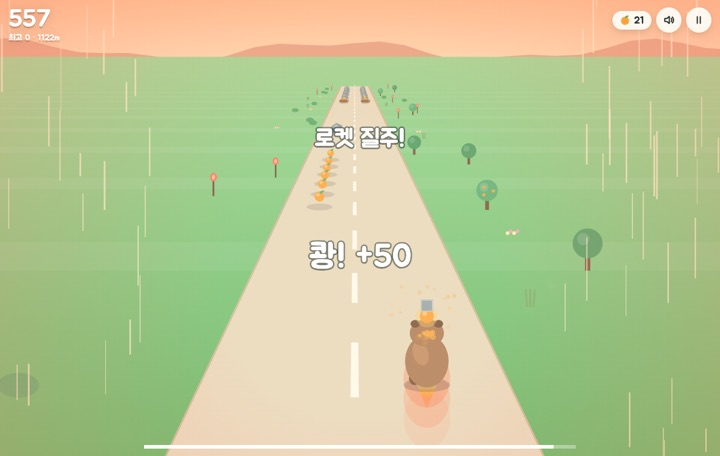
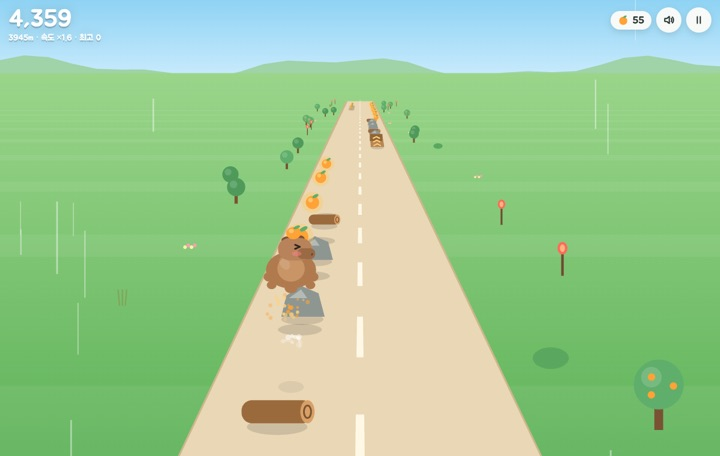
Dash: a cuter capybara with a face, and no shield item
The capybara is now chubby with short trotting feet and a big boxy head turned
toward the middle of the road (and toward the lane it moves to), so its snout,
sleepy eye and blush show. Expressions follow the moment: content while
running, >< mid-jump, star eyes on a rocket, wide eyes and a sweat drop on a
near miss, x when it crashes. The yuzu on its head wobbles on a spring and the
body squashes as each foot lands. The bubble shield is removed.

diff --git a/dash/index.html b/dash/index.html
@@ -209,15 +209,15 @@ const laneX = (lane, d) => W / 2 + (lane === 0 ? -1 : 1) * roadHalf * 0.5 * scal
 // ---------- game state ----------
 const LANE_TIME = 0.12;
 let state = 'title', t = 0, dist = 0, speed = 0, score = 0, yuzu = 0, combo = 0, comboT = 0, smashCombo = 0, nearCount = 0, smashed = 0;
-let lane = 1, laneFrom = 1, laneT = 1, boostT = 0, shield = false, hitstop = 0, slowmo = 0, shake = 0, flash = 0, dead = false, deadT = 0;
-let rings = [], zoomKick = 0, airT = 0, objs = [], parts = [], texts = [], streaks = [], scenery = [], nextSpawn = 0, lastPatternLane = 0, speedLevel = 0, rocketIn = 0, itemIn = 0;
+let lane = 1, laneFrom = 1, laneT = 1, boostT = 0, hitstop = 0, slowmo = 0, shake = 0, flash = 0, dead = false, deadT = 0;
+let rings = [], zoomKick = 0, airT = 0, objs = [], parts = [], texts = [], streaks = [], scenery = [], nextSpawn = 0, lastPatternLane = 0, speedLevel = 0, rocketIn = 0, face = 1, nearT = 0, yuzuAng = 0, yuzuVel = 0;
 const BASE_SPEED = 600, MAX_SPEED = 1500, BOOST_MUL = 2.2, RAMP_SECS = 120;   // linear climb to 2.5x, then hold (like the Chrome dino)
 const AIR = 0.85;   // seconds airborne after a jump ramp
 
 function reset() {
   t = 0; dist = 0; speed = BASE_SPEED; score = 0; yuzu = 0; combo = 0; comboT = 0; nearCount = 0; smashed = 0; smashCombo = 0;
-  lane = 1; laneFrom = 1; laneT = 1; boostT = 0; shield = false; hitstop = 0; slowmo = 0; shake = 0; flash = 0; dead = false; deadT = 0;
-  objs = []; parts = []; texts = []; rings = []; zoomKick = 0; airT = 0; nextSpawn = 900; speedLevel = 0; rocketIn = rand(9, 13); itemIn = rand(14, 20);
+  lane = 1; laneFrom = 1; laneT = 1; boostT = 0; hitstop = 0; slowmo = 0; shake = 0; flash = 0; dead = false; deadT = 0;
+  objs = []; parts = []; texts = []; rings = []; zoomKick = 0; airT = 0; nextSpawn = 900; speedLevel = 0; rocketIn = rand(9, 13); face = 1; nearT = 0; yuzuAng = 0; yuzuVel = 0;
   scenery = [];
   for (let d = -200; d < 2400; d += rand(60, 120)) addScenery(d);
 }
@@ -262,13 +262,6 @@ function spawnPattern() {
     for (let i = 1; i <= 3; i++) objs.push({ kind: 'yuzu', lane: l, d: base - i * 70 });
     rocketIn = rand(18, 26);
     nextSpawn = base + gap * 1.4;
-    return;
-  }
-  if (itemIn <= 0) {
-    const l = pick();
-    objs.push({ kind: 'bubble', lane: l, d: base });
-    itemIn = rand(13, 19);
-    nextSpawn = base + gap;
     return;
   }
   const r = Math.random();
@@ -323,6 +316,7 @@ function tap() {
   if (threat && boostT <= 0) {
     nearCount++; score += 15 * (1 + speedLevel);
     float('아슬아슬! +' + 15 * (1 + speedLevel), laneX(laneFrom, 0), playerY - 60, '#fff');
+    nearT = 0.55;
     rings.push({ x: laneX(laneFrom, 0), y: playerY - 10, age: 0 }); flash = Math.max(flash, 0.15); shake = Math.max(shake, 4); Sound.near(); buzz(15);
   }
   for (let i = 0; i < 6; i++) parts.push({ x: laneX(laneFrom, 0), y: playerY + 18, vx: rand(-60, 60) + (lane - laneFrom) * 120, vy: rand(-40, 10), life: 0.35, age: 0, r: rand(3, 6), c: 'rgba(255,255,255,0.8)' });
@@ -351,6 +345,15 @@ function float(text, x, y, color, life = 0.9, size = 24) {
 const isHazard = o => o.kind === 'rock' || o.kind === 'log' || o.kind === 'crab';
 
 // ---------- update ----------
+function animateCapy(dt) {
+  const target = laneT < 1 ? (lane > laneFrom ? 1 : -1) : (laneNow() === 0 ? 1 : -1);
+  face += (target - face) * Math.min(1, dt * 12);
+  if (nearT > 0) nearT -= dt;
+  // a little spring for the yuzu: the body's bounce and lane changes kick it
+  const run = t * (15 + speed / 120);
+  yuzuVel += (-yuzuAng * 160 - yuzuVel * 9) * dt + Math.cos(run * 2) * dt * 4 + (laneT < 1 ? (laneFrom - lane) * dt * 30 : 0);
+  yuzuAng = clamp(yuzuAng + yuzuVel * dt, -0.6, 0.6);
+}
 function update(dt) {
   if (state !== 'run' && state !== 'over') return;
   t += dt;
@@ -364,9 +367,10 @@ function update(dt) {
     score += sp * dt * 0.02 * (boostT > 0 ? 2 : 1);
   }
   laneT += dt / LANE_TIME;
+  animateCapy(dt);
   if (airT > 0) { airT -= dt; if (airT <= 0) { Sound.land(); shake = Math.max(shake, 5); for (let i = 0; i < 10; i++) parts.push({ x: laneX(laneNow(), 0) + rand(-20, 20), y: playerY + 24, vx: rand(-160, 160), vy: rand(-120, -20), g: 400, life: 0.45, age: 0, r: rand(3, 6), c: 'rgba(255,255,255,0.85)' }); } }
   if (boostT > 0) { boostT -= dt; if (boostT <= 0) { smashCombo = 0; float('부스트 끝', W / 2, H * 0.4, '#fff', 0.8); objs = objs.filter(o => !(isHazard(o) && o.d < effectiveSpeed() * 1.2)); nextSpawn = Math.max(nextSpawn, effectiveSpeed() * 1.2); } }
-  if (!dead) { rocketIn -= dt; itemIn -= dt; }
+  if (!dead) rocketIn -= dt;
   if (comboT > 0) { comboT -= dt; if (comboT <= 0) combo = 0; }
   // move world toward the player
   for (const o of objs) {
@@ -389,11 +393,9 @@ function update(dt) {
     if (o.kind === 'ramp') { if (airT <= 0) { airT = AIR; Sound.jump(); float('점프!', W / 2, playerY - 150, '#fff', 0.7, 30); buzz(12); } continue; }
     if (o.kind === 'yuzu') { if (o.air && airT <= 0) continue; o.gone = true; collectYuzu(o); continue; }
     if (o.kind === 'rocket') { o.gone = true; boostT = 5.5; Sound.boost(); flash = 0.6; shake = 10; float('로켓 질주!', W / 2, H * 0.36, '#fff', 1.2, 40); buzz(40); continue; }
-    if (o.kind === 'bubble') { o.gone = true; shield = true; Sound.item(); float('거품 방패!', W / 2, H * 0.4, '#fff', 1, 30); continue; }
     if (isHazard(o)) {
       if (airT > 0) continue;   // sailing over it
       if (boostT > 0) { smash(o); continue; }
-      if (shield) { shield = false; o.gone = true; burst(o, 14, ['#bfe9ff', '#fff']); Sound.pop(); float('방패가 막았어요', W / 2, H * 0.42, '#fff', 0.9, 26); shake = 6; continue; }
       die(o);
     }
   }
@@ -584,54 +586,81 @@ function drawObj(o) {
 function drawCapy() {
   const lv = laneVisual(), x = W / 2 + (lv * 2 - 1) * roadHalf * 0.5;
   const S = Math.min(W, 520) / 420;
-  const run = t * (13 + speed / 140), bob = dead ? 0 : (1 - Math.cos(run)) / 2 * 6 * S;   // lifts off a little at full stretch
-  const tilt = (lane - laneFrom) * (1 - clamp(laneT, 0, 1)) * 0.35;
-  const squash = laneT < 1 ? 1 + Math.sin(clamp(laneT, 0, 1) * Math.PI) * 0.15 : 1;
+  // a quick, chubby waddle-trot: short legs, a round body that bounces and squashes on each step
+  const run = t * (15 + speed / 120), step = Math.abs(Math.sin(run));
+  const bob = dead ? 0 : step * 7 * S;
+  const land = dead ? 0 : Math.pow(1 - step, 4);              // squash right as a foot lands
+  const tilt = (lane - laneFrom) * (1 - clamp(laneT, 0, 1)) * 0.3;
   const hop = airT > 0 ? Math.sin(Math.PI * (1 - airT / AIR)) * 130 * S : 0;
   let y = playerY - bob - hop;
-  if (dead) { y -= Math.sin(Math.min(1, deadT * 2) * Math.PI) * 60 * S; }
+  if (dead) y -= Math.sin(Math.min(1, deadT * 2) * Math.PI) * 60 * S;
+  const mood = dead ? 'dead' : boostT > 0 ? 'boost' : airT > 0 ? 'jump' : nearT > 0 ? 'wow' : 'calm';
   // boost afterimages and flame
   if (boostT > 0) {
-    for (let i = 3; i >= 1; i--) { g.globalAlpha = 0.12 * (4 - i); g.fillStyle = '#ff7a4a'; g.beginPath(); g.ellipse(x, y + i * 26 * S, 30 * S, 38 * S, 0, 0, TAU); g.fill(); }
+    for (let i = 3; i >= 1; i--) { g.globalAlpha = 0.12 * (4 - i); g.fillStyle = '#ff7a4a'; g.beginPath(); g.ellipse(x, y + i * 24 * S, 32 * S, 30 * S, 0, 0, TAU); g.fill(); }
     g.globalAlpha = 1;
     const fl = 40 + Math.sin(t * 40) * 10;
     const grad = g.createLinearGradient(x, y + 30 * S, x, y + (30 + fl) * S);
     grad.addColorStop(0, '#fff3a8'); grad.addColorStop(0.4, '#ffa236'); grad.addColorStop(1, 'rgba(255,90,60,0)');
-    g.fillStyle = grad; g.beginPath(); g.moveTo(x - 16 * S, y + 26 * S); g.lineTo(x, y + (30 + fl) * S); g.lineTo(x + 16 * S, y + 26 * S); g.closePath(); g.fill();
+    g.fillStyle = grad; g.beginPath(); g.moveTo(x - 16 * S, y + 28 * S); g.lineTo(x, y + (32 + fl) * S); g.lineTo(x + 16 * S, y + 28 * S); g.closePath(); g.fill();
   }
+  // shadow stays on the ground
+  g.fillStyle = `rgba(0,0,0,${0.16 * (1 - hop / (200 * S))})`;
+  g.beginPath(); g.ellipse(x, playerY + 30 * S, 30 * S * (1 - hop / (300 * S)), 8 * S, 0, 0, TAU); g.fill();
   g.save();
   g.translate(x, y);
   g.rotate(dead ? deadT * 10 : tilt);
-  g.scale(1 / squash, squash);
-  // shadow
-  g.fillStyle = `rgba(0,0,0,${0.18 * (1 - hop / (200 * S))})`; g.beginPath(); g.ellipse(0, 30 * S + bob + hop, 30 * S * (1 - hop / (300 * S)), 9 * S, 0, 0, TAU); g.fill();
-  // seen from behind and above: a long body with four paws at its corners, galloping.
-  // e = 0 gathered (paws tucked under, body short), e = 1 extended (front paws reach, hind paws kick, body long and off the ground)
-  const e = dead ? 0.3 : (1 - Math.cos(run)) / 2;
-  const L = (60 + e * 16) * S, rx = (25 - e * 2) * S, cy = (8 - e * 6) * S;
-  const shoulder = cy - L / 2 + 14 * S, hip = cy + L / 2 - 14 * S, headY = cy - L / 2 - 6 * S;
-  const leg = (sx, sy, px, py, w) => {
-    g.strokeStyle = '#6e4a2f'; g.lineWidth = w; g.lineCap = 'round';
-    g.beginPath(); g.moveTo(sx, sy); g.lineTo(px, py); g.stroke();
-    g.fillStyle = '#4e3220'; g.beginPath(); g.ellipse(px, py, w * 0.62, w * 0.42, 0, 0, TAU); g.fill();
-  };
+  const sq = airT > 0 ? 0.92 : 1 + land * 0.08;
+  g.scale(1 / sq, sq);
+  const f = face, af = Math.abs(f);
+  // stubby feet: hind pair under the bottom, front pair peeking at the chest, alternating like a trot
+  const foot = (fx, fy, lift) => { g.fillStyle = '#5e3e27'; g.beginPath(); g.ellipse(fx * S, (fy - lift) * S, 7 * S, 5 * S, 0, 0, TAU); g.fill(); };
+  const tuck = airT > 0 ? 6 : 0;
   for (const s of [-1, 1]) {
-    // a slight lead: one side lands a moment before the other
-    const ef = dead ? 0.3 : (1 - Math.cos(run + s * 0.45)) / 2, eh = dead ? 0.3 : (1 - Math.cos(run + s * 0.3)) / 2;
-    // front legs stay under the chest; only the paws peek out beside the head when they reach
-    leg(s * 10 * S, shoulder + 4 * S, s * (14 + ef * 3) * S, shoulder + (10 - ef * 24) * S, 7.5 * S);
-    leg(s * 15 * S, hip, s * (20 + eh * 3) * S, hip + (eh * 22 - (1 - eh) * 12) * S, 11 * S);
+    const k = dead ? 0 : Math.max(0, Math.sin(run + (s > 0 ? 0 : Math.PI)));
+    foot(s * 17, 28 - tuck, k * 7);
+    foot(s * 14, 4 - tuck, Math.max(0, Math.sin(run + (s > 0 ? Math.PI : 0))) * 6);
   }
-  // body, a lighter stripe down the spine, then the head reaching forward
-  g.fillStyle = '#b07a4f'; g.beginPath(); g.ellipse(0, cy, rx, L / 2, 0, 0, TAU); g.fill();
-  g.fillStyle = '#c48b5c'; g.beginPath(); g.ellipse(0, cy - 2 * S, rx * 0.38, L * 0.38, 0, 0, TAU); g.fill();
-  g.fillStyle = '#a06c44'; g.beginPath(); g.ellipse(0, hip + 2 * S, rx * 0.8, 10 * S, 0, 0, TAU); g.fill();
-  g.fillStyle = '#b07a4f'; g.beginPath(); g.ellipse(0, headY, 17 * S, 15 * S, 0, 0, TAU); g.fill();
-  g.fillStyle = '#7a5233'; for (const s of [-1, 1]) { g.beginPath(); g.ellipse(s * 12 * S, headY - 8 * S, 5.5 * S, 4.5 * S, 0, 0, TAU); g.fill(); }
-  // yuzu on the head
-  drawYuzu(0, headY - 15 * S, 8.5 * S, boostT > 0);
+  // round body with a fluffy edge and a lighter back
+  g.fillStyle = '#b07a4f';
+  g.beginPath(); g.ellipse(0, 8 * S, 31 * S, 27 * S, 0, 0, TAU); g.fill();
+  for (const [fx, fy, r] of [[-27, 18, 7], [27, 18, 7], [-24, 30, 6], [24, 30, 6], [0, 34, 8]]) { g.beginPath(); g.arc(fx * S, fy * S, r * S, 0, TAU); g.fill(); }
+  g.fillStyle = '#c99566'; g.beginPath(); g.ellipse(0, 6 * S, 17 * S, 19 * S, 0, 0, TAU); g.fill();
+  g.fillStyle = 'rgba(255,255,255,0.12)'; g.beginPath(); g.ellipse(-8 * S, -2 * S, 6 * S, 10 * S, -0.4, 0, TAU); g.fill();
+  // head, turned toward `face`: boxy, with the snout and a sleepy eye showing on that side
+  const hx = f * 5 * S, hy = -22 * S;
+  g.fillStyle = '#7a5233';
+  g.beginPath(); g.ellipse(hx - f * 11 * S, hy - 14 * S, 6 * S, 5 * S, -f * 0.3, 0, TAU); g.fill();      // near ear
+  g.beginPath(); g.ellipse(hx + f * 7 * S, hy - 16 * S, 5 * S, 4.5 * S, f * 0.3, 0, TAU); g.fill();       // far ear
+  g.fillStyle = '#b8835a';
+  g.beginPath(); g.roundRect ? g.roundRect(hx - 21 * S, hy - 17 * S, 42 * S, 33 * S, 15 * S) : g.rect(hx - 21 * S, hy - 17 * S, 42 * S, 33 * S); g.fill();
+  // snout reaching out to the side the head faces
+  g.fillStyle = '#9a6a44';
+  g.beginPath(); g.roundRect ? g.roundRect(hx + f * (6 + 8 * af) * S - 11 * S, hy - 2 * S, 22 * S, 16 * S, 7 * S) : g.rect(hx + f * 12 * S - 11 * S, hy - 2 * S, 22 * S, 16 * S); g.fill();
+  g.fillStyle = 'rgba(70,45,28,0.55)'; g.beginPath(); g.ellipse(hx + f * (13 + 8 * af) * S, hy + 7 * S, 1.3 * S, 2 * S, f * 0.3, 0, TAU); g.fill();   // a soft nostril, not a second eye
+  // blush
+  g.fillStyle = 'rgba(255,130,140,0.5)'; g.beginPath(); g.ellipse(hx + f * 2 * S, hy + 6 * S, 6 * S, 3.5 * S, 0, 0, TAU); g.fill();
+  // eye and expression
+  const ex = hx + f * 4 * S, ey = hy - 4 * S;
+  g.strokeStyle = '#2b2420'; g.fillStyle = '#2b2420'; g.lineWidth = 2.4 * S; g.lineCap = 'round'; g.lineJoin = 'round';
+  if (mood === 'calm') { g.beginPath(); g.moveTo(ex - 4 * S, ey + 1 * S); g.quadraticCurveTo(ex, ey - 3 * S, ex + 4 * S, ey + 1 * S); g.stroke(); }
+  else if (mood === 'jump') { g.beginPath(); g.moveTo(ex - 4 * S, ey - 3 * S); g.lineTo(ex + 2 * S * f, ey); g.lineTo(ex - 4 * S, ey + 3 * S); g.stroke(); }
+  else if (mood === 'wow') {
+    g.fillStyle = '#fff'; g.beginPath(); g.arc(ex, ey, 4.2 * S, 0, TAU); g.fill(); g.stroke();
+    g.fillStyle = '#2b2420'; g.beginPath(); g.arc(ex + f * 1 * S, ey, 2 * S, 0, TAU); g.fill();
+    g.fillStyle = '#8fd0f0'; g.beginPath(); g.moveTo(hx - f * 16 * S, hy - 14 * S); g.quadraticCurveTo(hx - f * 21 * S, hy - 6 * S, hx - f * 16 * S, hy - 4 * S); g.quadraticCurveTo(hx - f * 11 * S, hy - 6 * S, hx - f * 16 * S, hy - 14 * S); g.fill();
+  }
+  else if (mood === 'boost') {
+    g.fillStyle = '#fff6b0'; g.beginPath();
+    for (let i = 0; i < 8; i++) { const r = i % 2 ? 2 * S : 5.5 * S, a = i / 8 * TAU + t * 6; g.lineTo(ex + Math.cos(a) * r, ey + Math.sin(a) * r); }
+    g.closePath(); g.fill(); g.strokeStyle = '#ffa236'; g.lineWidth = 1.2 * S; g.stroke();
+  }
+  else { g.beginPath(); g.moveTo(ex - 3.5 * S, ey - 3.5 * S); g.lineTo(ex + 3.5 * S, ey + 3.5 * S); g.moveTo(ex + 3.5 * S, ey - 3.5 * S); g.lineTo(ex - 3.5 * S, ey + 3.5 * S); g.stroke(); }
+  // the yuzu rides on top, wobbling on its little spring
+  g.save(); g.translate(hx - f * 2 * S, hy - 16 * S); g.rotate(yuzuAng);
+  drawYuzu(0, -8 * S, 9 * S, boostT > 0);
   g.restore();
-  if (shield) { g.strokeStyle = 'rgba(120,200,255,0.9)'; g.lineWidth = 4; g.fillStyle = 'rgba(160,220,255,0.18)'; g.beginPath(); g.arc(x, y - 4 * S, 52 * S + Math.sin(t * 6) * 3, 0, TAU); g.fill(); g.stroke(); }
+  g.restore();
 }
 function render() {
   g.setTransform(DPR, 0, 0, DPR, 0, 0);
@@ -697,7 +726,7 @@ function frame(now) {
   if (state === 'paused') { render(); requestAnimationFrame(frame); return; }
   if (hitstop > 0) { hitstop -= dt; dt = 0; }
   if (slowmo > 0) { slowmo -= dt; dt *= 0.35; }
-  if (state === 'title') { t += dt; dist += 300 * dt; for (const s of scenery) s.d -= 300 * dt; scenery = scenery.filter(s => s.d > -K * 0.55); while (scenery.length < 46) addScenery(Math.max(0, ...scenery.map(s => s.d)) + rand(50, 110)); laneT += dt / LANE_TIME; if (Math.random() < dt * 0.6) { laneFrom = laneNow(); lane = 1 - laneFrom; laneT = 0; } }
+  if (state === 'title') { animateCapy(dt); t += dt; dist += 300 * dt; for (const s of scenery) s.d -= 300 * dt; scenery = scenery.filter(s => s.d > -K * 0.55); while (scenery.length < 46) addScenery(Math.max(0, ...scenery.map(s => s.d)) + rand(50, 110)); laneT += dt / LANE_TIME; if (Math.random() < dt * 0.6) { laneFrom = laneNow(); lane = 1 - laneFrom; laneT = 0; } }
   else update(dt);
   if (state === 'run' && !dead) Sound.tickMusic(clamp((speed - BASE_SPEED) / (MAX_SPEED - BASE_SPEED), 0, 1), boostT > 0);
   render();
